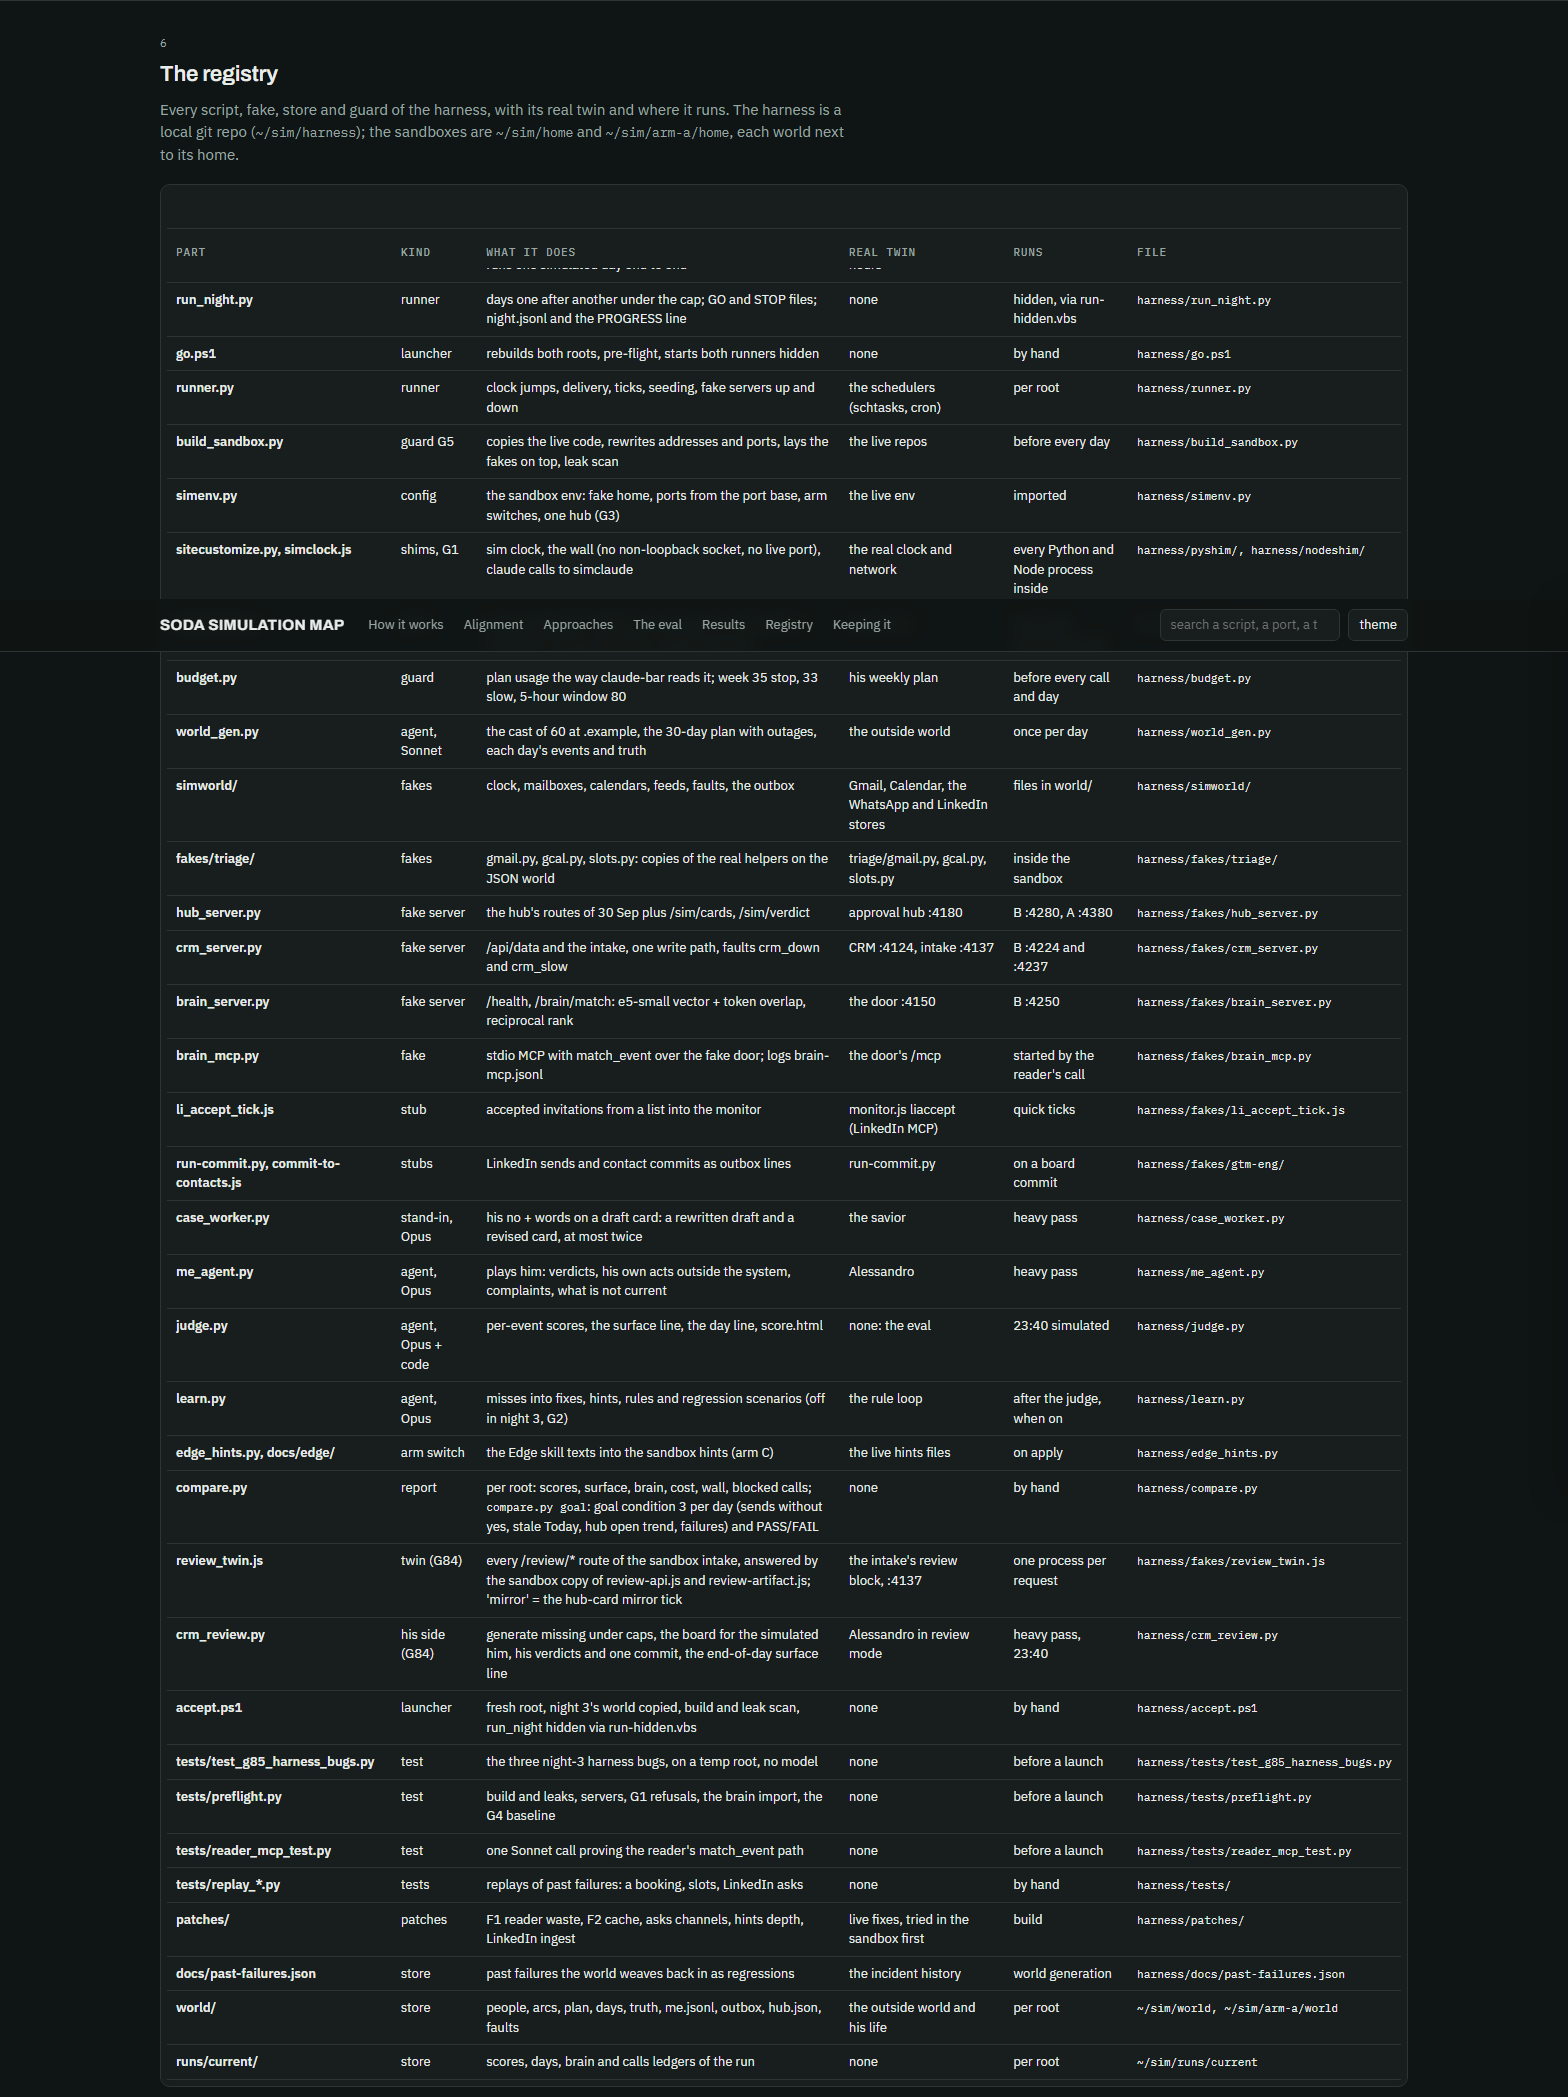
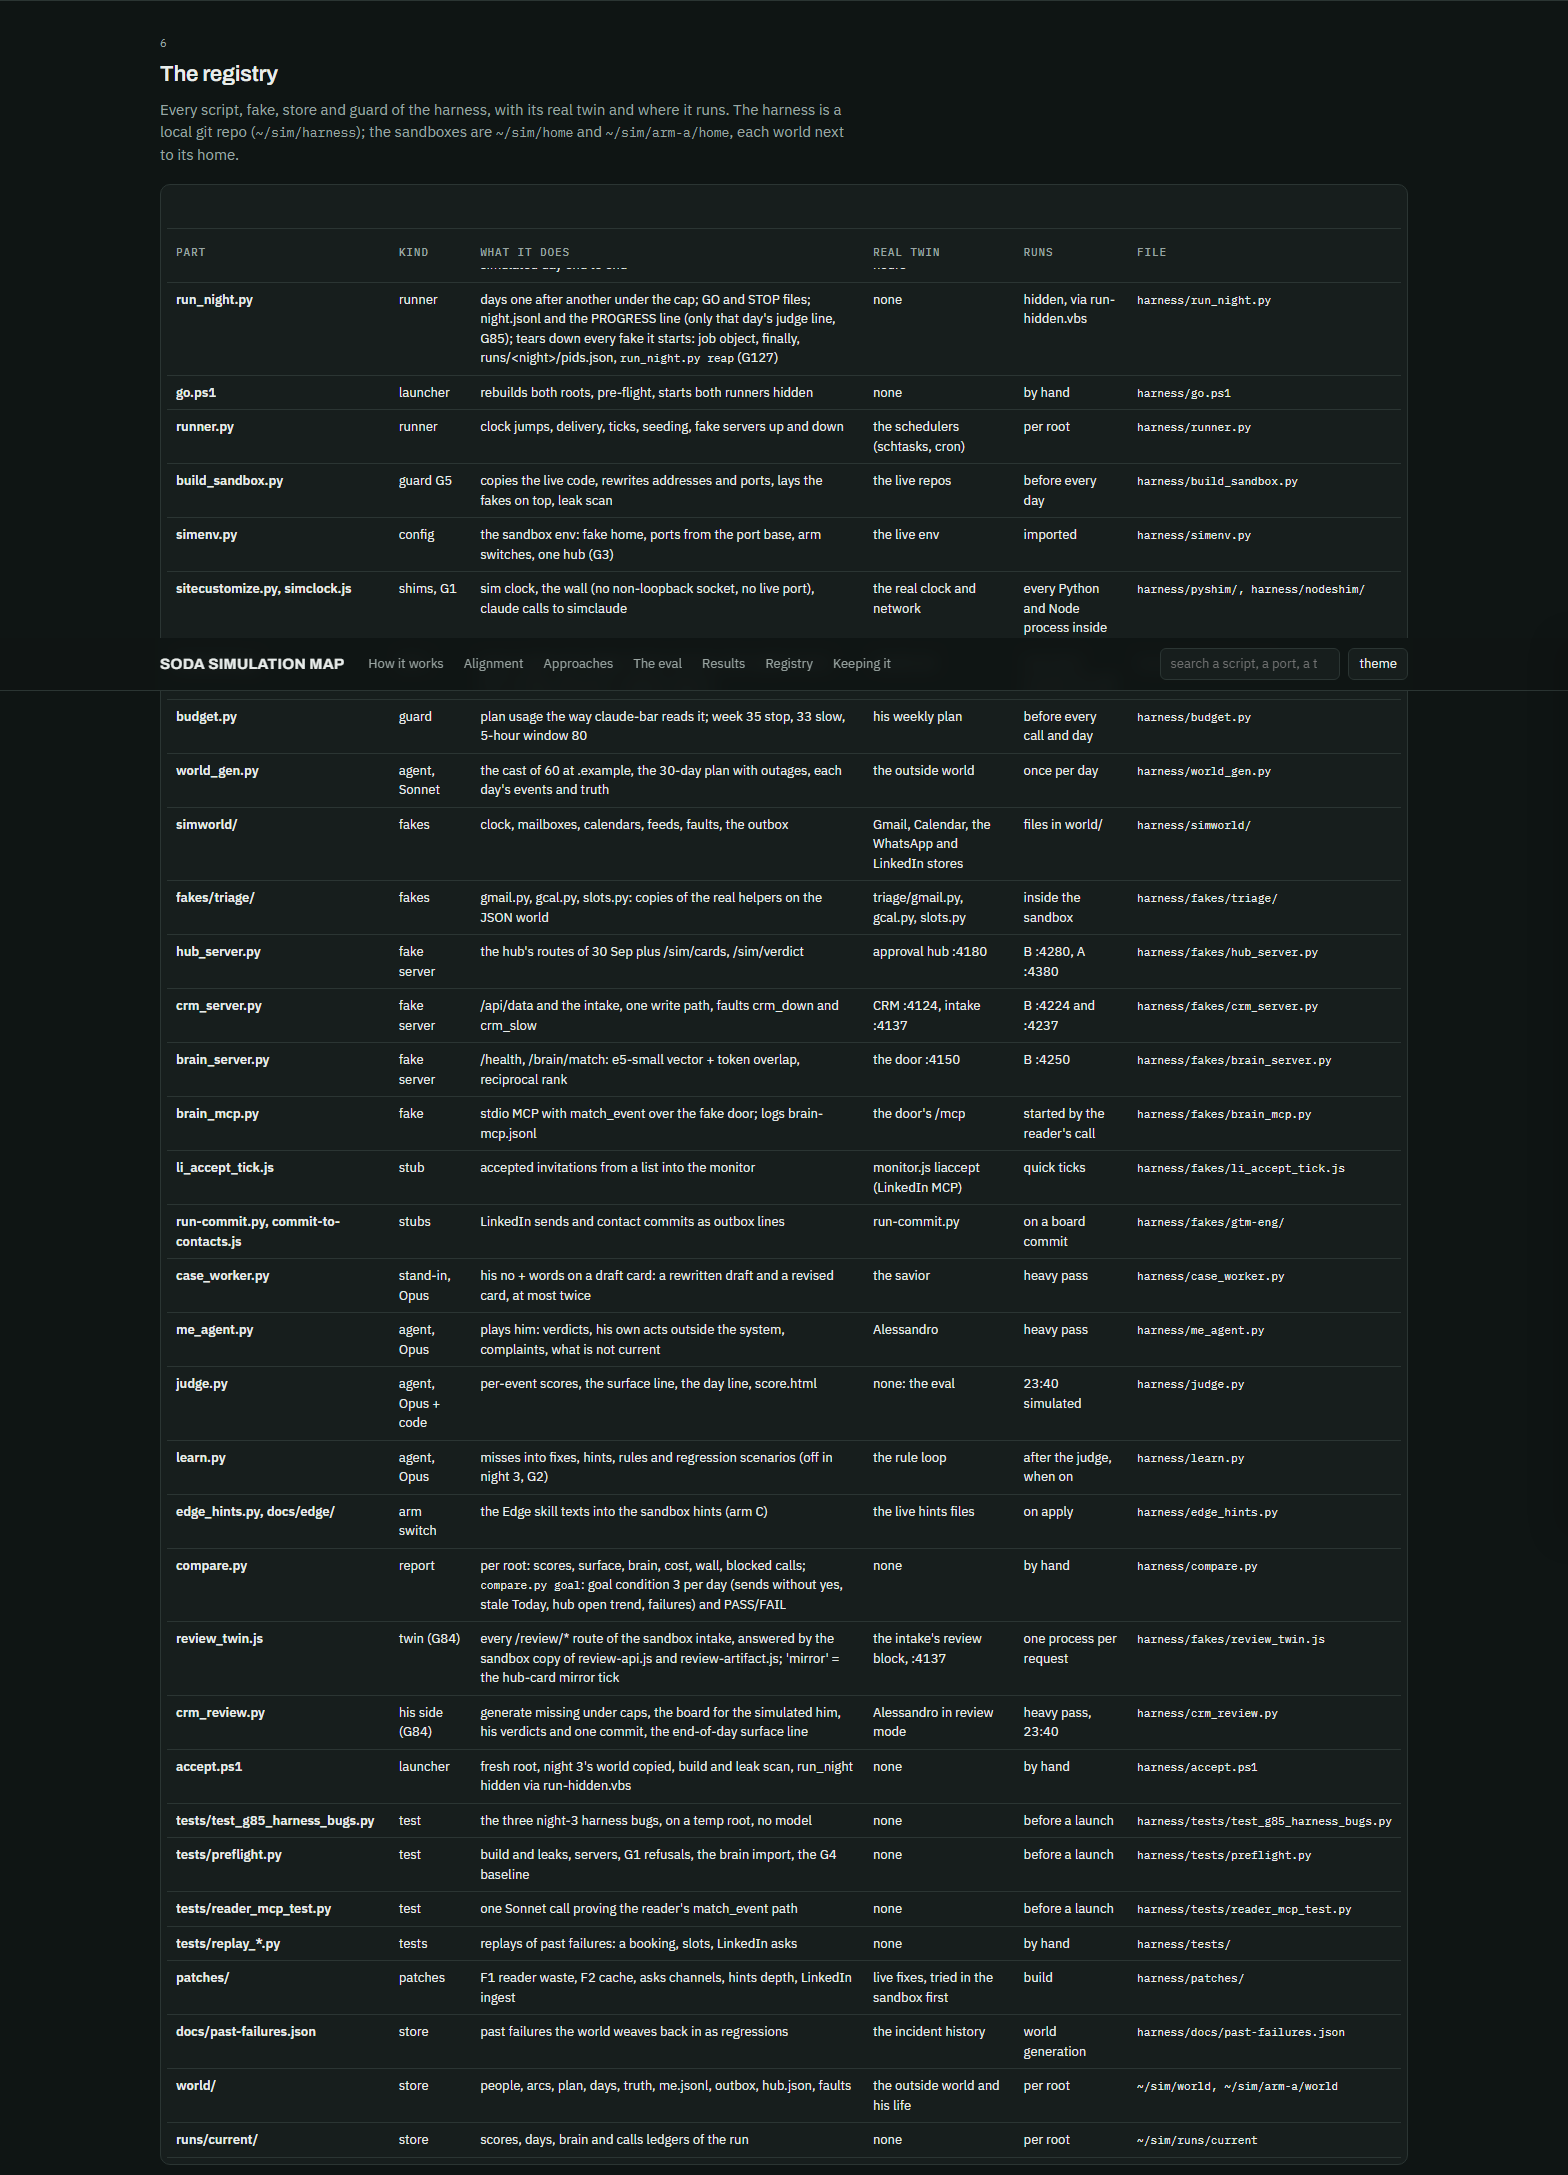
vault sync 2026-10-04 21:46 (9 files)

Changed region(s): [[0.0938, 0.093, 0.875, 0.9919], [0.0938, 0.031, 0.5312, 0.093], [0.5625, 0.093, 0.5938, 0.124]]

diff --git a/system/SODA-SIMULATION-MAP.html b/system/SODA-SIMULATION-MAP.html
@@ -583,7 +583,7 @@ const RESULTS = {
 
 const REG = [
  ["sim_day.py","runner","sets a run up (cast, plan, CRM seed, board, to-dos) and runs one simulated day end to end","the real system's 24 hours","per root","harness/sim_day.py"],
- ["run_night.py","runner","days one after another under the cap; GO and STOP files; night.jsonl and the PROGRESS line","none","hidden, via run-hidden.vbs","harness/run_night.py"],
+ ["run_night.py","runner","days one after another under the cap; GO and STOP files; night.jsonl and the PROGRESS line (only that day's judge line, G85); tears down every fake it starts: job object, finally, runs/&lt;night&gt;/pids.json, <code>run_night.py reap</code> (G127)","none","hidden, via run-hidden.vbs","harness/run_night.py"],
  ["go.ps1","launcher","rebuilds both roots, pre-flight, starts both runners hidden","none","by hand","harness/go.ps1"],
  ["runner.py","runner","clock jumps, delivery, ticks, seeding, fake servers up and down","the schedulers (schtasks, cron)","per root","harness/runner.py"],
  ["build_sandbox.py","guard G5","copies the live code, rewrites addresses and ports, lays the fakes on top, leak scan","the live repos","before every day","harness/build_sandbox.py"],

diff --git a/memory/reference_system_agent.md b/memory/reference_system_agent.md
@@ -5,7 +5,7 @@ metadata:
   node_type: memory
   type: reference
   originSessionId: da99606c-b308-443c-a768-d5a8aa2c0833
-  modified: 2026-10-04T17:58:48.928Z
+  modified: 2026-10-04T19:36:38.792Z
 ---
 
 Split on 4 Oct 2026 (design `soda-brain/handoffs/DESIGN-20261004-system-agent.md`, his words: "a maintainer for the
@@ -26,6 +26,10 @@ section 7.
   it; a never-list cause = `stuck` at once. The guard hook fails OPEN if it crashes (Claude Code), hence the preflight.
 - **STUCK card** only after a fix session said stuck, or for a check the ledger marks his_command. His yes runs through
   `unstuck.py`: auth (account pre-selected), terminal (pre-typed, `his-yes` in window-watch via expected.jsonl), run.
+- **Past the whitelist NEVER a card (HUB H54/H55/H56, 4 Oct 21:19-21:23, his "never again"):** a timing failure
+  (memory, port, timeout, sync) waits for its condition and the agent re-runs the work itself; anything else = the fix
+  session; he hears only from a session that returned stuck, in the H54 shape (what broke, what it means, what I did,
+  what happens next, the one thing). Both agents (shared `agentlib.Engine`).
 - **GTM agent** (`gtm-eng/agent/gtm_agent.py`, task GTM-Agent): campaigns only; non-campaign faults -> `inbox.jsonl`;
   reads `blockers.json`; `gtm_agent.py section --json` is its part of the ONE combined report (09:00, 18:15, posted by
   the System Agent, which also pushes the heartbeat `box_watch.py` reads).

diff --git a/system/SODA-SIMULATION-MAP.md b/system/SODA-SIMULATION-MAP.md
@@ -88,6 +88,13 @@ over the items shown), hub open cards at the end of the day (`runs/current/surfa
 CRM board open items; PASS needs arm B, at least 5 scored days, an event average of at least 71.3, 0 sends without
 his yes, stale Today at most 20%, a hub-open slope of at most 0.5 cards a day, 0 harness failures (days that raised or
 ended without a judge line). Smoke day: `-Root C:/Users/Alessandro/sim/smoke -Base 4500 -Name smoke-B -Days 1-1`.
+Smoke day run 4 Oct 20:37 to 21:39 (62 min wall, day 1 = 12 Oct, 15 events): score 56.9 (night 3 B on the same
+day: 55.4), fatal 2 (both the meeting loop's invite after a confirmed meeting card: the open question G87), the board
+in the loop (9 drafts generated, 3 commits, the commit's sends counted as his yes), 0 harness failures; week 45 to 52%
+over that hour, other builders included. G127 (4 Oct 21:40): `run_night.py` tears down every fake it starts (a
+Windows job object with kill-on-close, finally + atexit, `runs/<night>/pids.json`, `run_night.py reap [<night>]`
+that checks each pid's command line is a harness fake); proof `tests/test_g127_teardown.py` (STOP, an injected day
+failure, a hard kill).
 
 ## How to keep it
 
